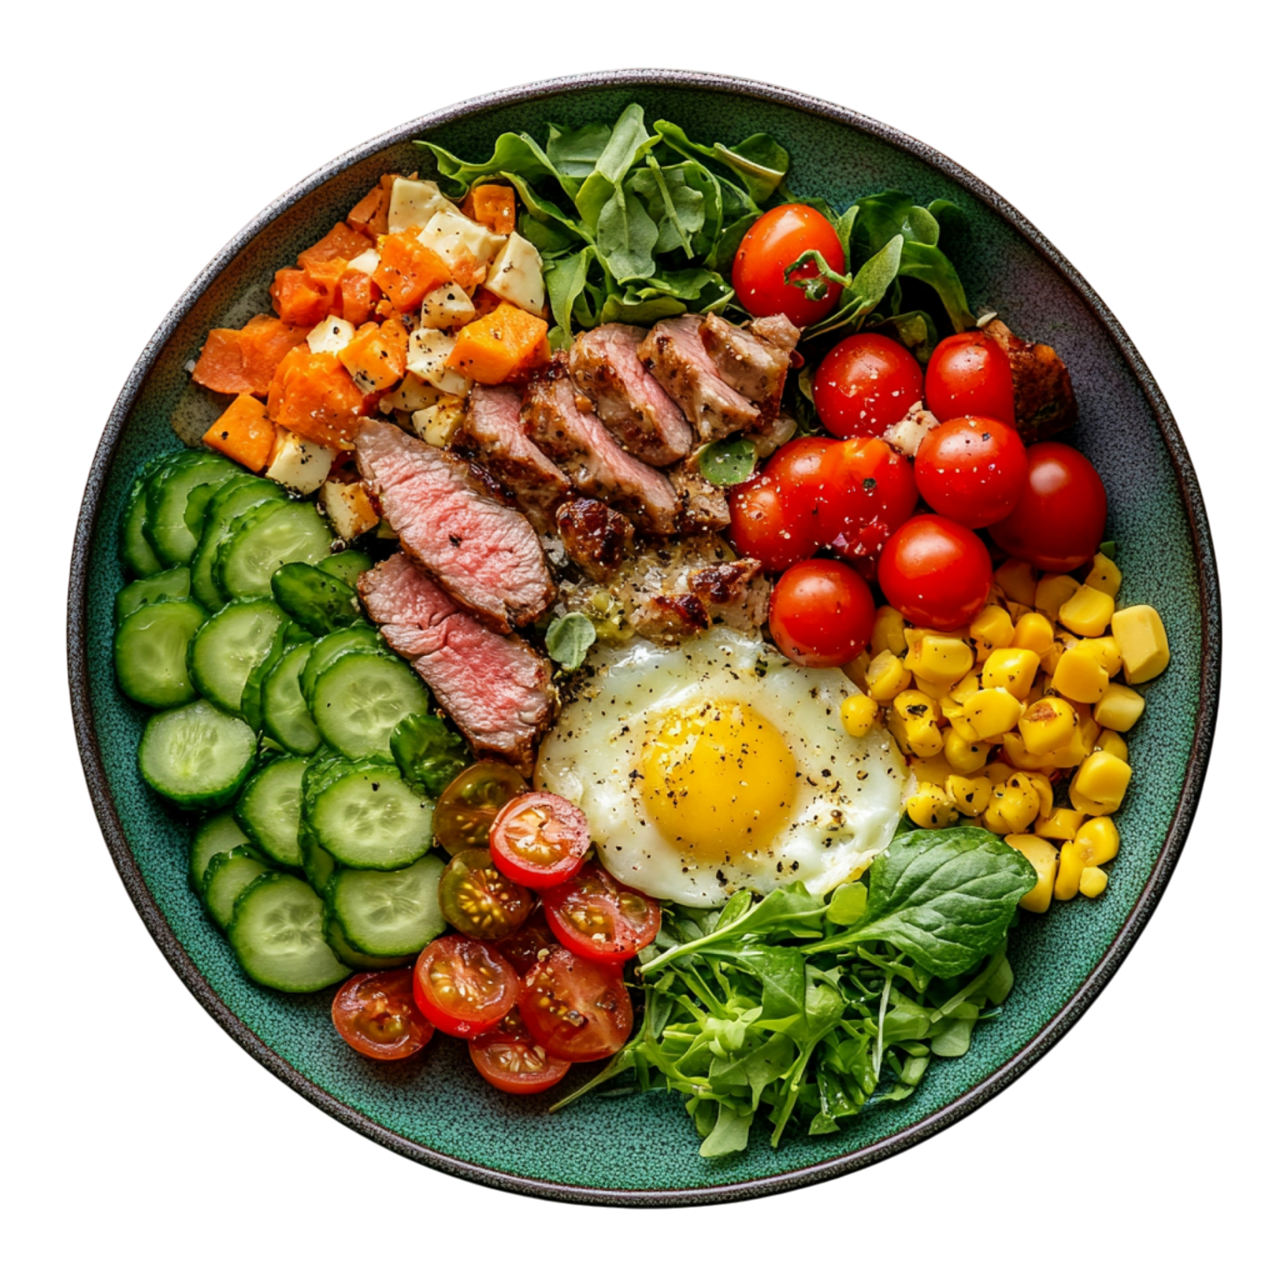
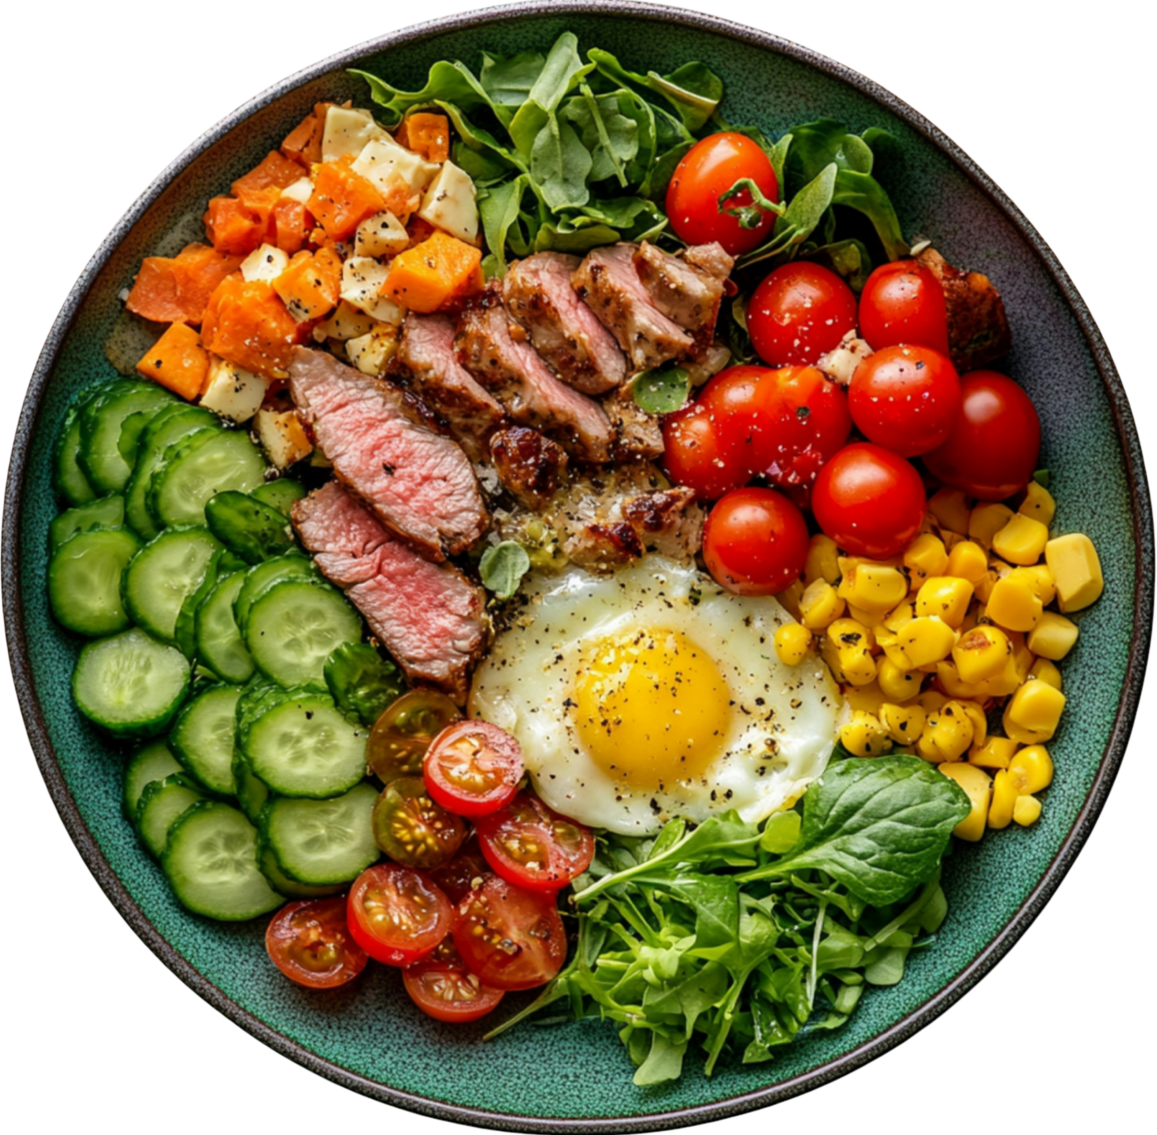
Added picture in Why Choose Section

diff --git a/components/why-choose-section.tsx b/components/why-choose-section.tsx
@@ -1,15 +1,16 @@
-import Image from "next/image"
+import Image from "next/image";
+import { ArrowRight, ChevronRight } from "lucide-react";
 
 export default function WhyChooseSection() {
   return (
-    <section className="py-24 bg-white">
-      <div className="container mx-auto">
+    <section className="py-[104px] bg-white">
+      <div className="container mx-auto px-6 max-w-7xl">
         <div className="flex flex-col lg:flex-row items-center gap-12">
           {/* Left side - Image placeholder */}
           <div className="w-full lg:w-1/2">
-            <div className="bg-gray-100 rounded-lg overflow-hidden aspect-square max-w-lg mx-auto flex items-center justify-center">
+            <div className="rounded-full overflow-hidden aspect-square bg-[#E2E3E1] max-w-lg mx-auto flex items-center justify-center shadow-2xl shadow-black/35">
               <Image
-                src="/placeholder.svg?height=500&width=500"
+                src="/images/plate6.png"
                 alt="NutriPlan App Interface"
                 width={500}
                 height={500}
@@ -20,27 +21,33 @@ export default function WhyChooseSection() {
 
           {/* Right side - Content */}
           <div className="w-full lg:w-1/2 space-y-6">
-            <div className="inline-block px-4 py-2 bg-emerald-50 rounded-full text-emerald-700 text-sm font-medium">
-              Why Choose NutriPlan
+            <div className="inline-block px-4 py-2 bg-emerald-100 rounded-full text-emerald-700 text-sm font-medium">
+              Why Choose SmartPlate
             </div>
 
-            <h2 className="text-4xl font-bold text-gray-900">Designed for Everyone</h2>
+            <h2 className="text-4xl lg:text-5xl font-bold text-gray-900">
+              Designed for Everyone
+            </h2>
 
             <p className="text-lg text-gray-600">
-              NutriPlan adapts to your unique needs, whether you're managing a health condition, following a specific
-              diet, or simply wanting to eat healthier.
+              SmartPlate adapts to your unique needs, whether you're managing a
+              health condition, following a specific diet, or simply wanting to
+              eat healthier.
             </p>
 
             <div className="space-y-6 pt-4">
               {/* Feature 1 */}
               <div className="flex gap-4">
                 <div className="flex-shrink-0 h-8 w-8 bg-emerald-100 rounded-full flex items-center justify-center">
-                  <span className="text-emerald-600">→</span>
+                  <ChevronRight className="text-emerald-600 h-5 w-5" />
                 </div>
                 <div>
-                  <h3 className="font-bold text-xl text-gray-900">Personalized Experience</h3>
+                  <h3 className="font-bold text-xl text-gray-900">
+                    Personalized Experience
+                  </h3>
                   <p className="text-gray-600 mt-1">
-                    Customized meal plans that adapt to your preferences and dietary requirements.
+                    Customized meal plans that adapt to your preferences and
+                    dietary requirements.
                   </p>
                 </div>
               </div>
@@ -48,12 +55,15 @@ export default function WhyChooseSection() {
               {/* Feature 2 */}
               <div className="flex gap-4">
                 <div className="flex-shrink-0 h-8 w-8 bg-emerald-100 rounded-full flex items-center justify-center">
-                  <span className="text-emerald-600">→</span>
+                  <ChevronRight className="text-emerald-600 h-5 w-5" />
                 </div>
                 <div>
-                  <h3 className="font-bold text-xl text-gray-900">Time-Saving Solutions</h3>
+                  <h3 className="font-bold text-xl text-gray-900">
+                    Time-Saving Solutions
+                  </h3>
                   <p className="text-gray-600 mt-1">
-                    Eliminate the guesswork and time spent on meal planning and nutritional calculations.
+                    Eliminate the guesswork and time spent on meal planning and
+                    nutritional calculations.
                   </p>
                 </div>
               </div>
@@ -61,12 +71,15 @@ export default function WhyChooseSection() {
               {/* Feature 3 */}
               <div className="flex gap-4">
                 <div className="flex-shrink-0 h-8 w-8 bg-emerald-100 rounded-full flex items-center justify-center">
-                  <span className="text-emerald-600">→</span>
+                  <ChevronRight className="text-emerald-600 h-5 w-5" />
                 </div>
                 <div>
-                  <h3 className="font-bold text-xl text-gray-900">Evidence-Based Nutrition</h3>
+                  <h3 className="font-bold text-xl text-gray-900">
+                    Evidence-Based Nutrition
+                  </h3>
                   <p className="text-gray-600 mt-1">
-                    Backed by reliable data from the USDA FoodData Central for accurate nutritional information.
+                    Backed by reliable data from the USDA FoodData Central for
+                    accurate nutritional information.
                   </p>
                 </div>
               </div>
@@ -75,5 +88,5 @@ export default function WhyChooseSection() {
         </div>
       </div>
     </section>
-  )
+  );
 }

diff --git a/components/features.tsx b/components/features.tsx
@@ -1,67 +1,72 @@
-import { FeatureIcons } from "./feature-icons"
+import { FeatureIcons } from "./feature-icons";
 
 export default function Features() {
   return (
-    <section className="py-24 md:py-32 bg-[#f2f9f6]">
-      <div className="container mx-auto px-4 sm:px-6 lg:px-8 max-w-6xl">
+    <section className="py-[104px] bg-[#EDFCF5]">
+      <div className="container mx-auto px-6 max-w-6xl">
         {/* Section header */}
         <div className="text-center mb-16">
           <div className="inline-block px-4 py-1.5 bg-emerald-100 rounded-full text-emerald-700 text-sm font-medium mb-6">
             Key Features
           </div>
 
-          <h2 className="text-3xl md:text-4xl lg:text-5xl font-bold text-[#1a2942] mb-6">
+          <h2 className="text-4xl lg:text-5xl font-bold text-[#1a2942] mb-6">
             Intelligent Solutions for Your Dietary Needs
           </h2>
 
           <p className="text-gray-600 text-lg max-w-3xl mx-auto">
-            SmartPlate combines cutting-edge technology with nutritional expertise to deliver a comprehensive meal
-            planning system.
+            SmartPlate combines cutting-edge technology with nutritional
+            expertise to deliver a comprehensive meal planning system.
           </p>
         </div>
 
         {/* Feature cards */}
         <div className="grid grid-cols-1 md:grid-cols-3 gap-8">
           {/* Feature 1 */}
-          <div className="bg-white p-8 rounded-lg shadow-sm flex flex-col items-center text-center">
-            <div className="w-12 h-12 bg-emerald-100 rounded-full flex items-center justify-center mb-6">
-              {FeatureIcons.mealPlanning}
-            </div>
+          <div className="feature-card">
+            <div className="feature-icon">{FeatureIcons.mealPlanning}</div>
 
-            <h3 className="text-xl font-bold text-[#1a2942] mb-3">Automated Meal Planning</h3>
+            <h3 className="text-xl font-bold text-[#1a2942] mb-3">
+              Automated Meal Planning
+            </h3>
 
             <p className="text-gray-600">
-              Personalized meal plans based on your dietary preferences, restrictions, and health goals.
+              Personalized meal plans based on your dietary preferences,
+              restrictions, and health goals.
             </p>
           </div>
 
           {/* Feature 2 */}
-          <div className="bg-white p-8 rounded-lg shadow-sm flex flex-col items-center text-center">
-            <div className="w-12 h-12 bg-emerald-100 rounded-full flex items-center justify-center mb-6">
+          <div className="feature-card">
+            <div className="feature-icon">
               {FeatureIcons.recipeRecommendations}
             </div>
 
-            <h3 className="text-xl font-bold text-[#1a2942] mb-3">AI Recipe Recommendations</h3>
+            <h3 className="text-xl font-bold text-[#1a2942] mb-3">
+              AI Recipe Recommendations
+            </h3>
 
             <p className="text-gray-600">
-              Discover new recipes tailored to your taste with our Gemini API-powered recommendation engine.
+              Discover new recipes tailored to your taste with our Gemini
+              API-powered recommendation engine.
             </p>
           </div>
 
           {/* Feature 3 */}
-          <div className="bg-white p-8 rounded-lg shadow-sm flex flex-col items-center text-center">
-            <div className="w-12 h-12 bg-emerald-100 rounded-full flex items-center justify-center mb-6">
-              {FeatureIcons.nutritionTracking}
-            </div>
+          <div className="feature-card">
+            <div className="feature-icon">{FeatureIcons.nutritionTracking}</div>
 
-            <h3 className="text-xl font-bold text-[#1a2942] mb-3">Precise Nutrition Tracking</h3>
+            <h3 className="text-xl font-bold text-[#1a2942] mb-3">
+              Precise Nutrition Tracking
+            </h3>
 
             <p className="text-gray-600">
-              Track your nutritional intake with accurate data from the USDA FoodData Central API.
+              Track your nutritional intake with accurate data from the USDA
+              FoodData Central API.
             </p>
           </div>
         </div>
       </div>
     </section>
-  )
+  );
 }

diff --git a/components/hero.tsx b/components/hero.tsx
@@ -7,7 +7,7 @@ export default function Hero() {
     <section className="container mx-auto px-4 sm:px-6 lg:px-8 flex flex-col items-center text-center pt-16 pb-16 relative">
       {/* Hero content */}
       <div className="max-w-3xl mx-auto z-10">
-        <h1 className="text-4xl sm:text-5xl md:text-6xl font-bold tracking-tight text-[#1a2942] mb-4">
+        <h1 className="text-5xl sm:text-6xl lg:text-6xl font-bold tracking-tight text-[#1a2942] mb-4">
           Smart Meal Planning
           <br />
           <span className="text-emerald-500">Made Simple</span>
@@ -24,7 +24,6 @@ export default function Hero() {
           className="bg-emerald-500 hover:bg-emerald-600 text-white px-8 py-6 text-lg rounded-md"
         >
           Get Started
-          <ArrowRight className="ml-2 h-5 w-5" />
         </Button>
       </div>
 
@@ -33,7 +32,7 @@ export default function Hero() {
         {/* This is a placeholder. Replace with your actual image */}
         <div className="aspect-square rounded-full overflow-hidden border-8 border-[#2D2217] shadow-2xl shadow-black/35">
           <Image
-            src="/images/hero-img2.png"
+            src="/images/hero-img.png"
             alt="Healthy meal in a plate"
             width={600}
             height={600}

diff --git a/app/globals.css b/app/globals.css
@@ -83,3 +83,10 @@
     @apply bg-background text-foreground;
   }
 }
+
+.feature-card {
+  @apply bg-white p-8 rounded-lg shadow-sm flex flex-col items-center text-center;
+}
+.feature-icon {
+  @apply w-12 h-12 bg-emerald-100 rounded-full flex items-center justify-center mb-6;
+}

diff --git a/tailwind.config.js b/tailwind.config.js
@@ -79,7 +79,7 @@ module.exports = {
   				'accent-foreground': 'hsl(var(--sidebar-accent-foreground))',
   				border: 'hsl(var(--sidebar-border))',
   				ring: 'hsl(var(--sidebar-ring))'
-  			}
+  			},
   		},
   		borderRadius: {
   			lg: 'var(--radius)',
